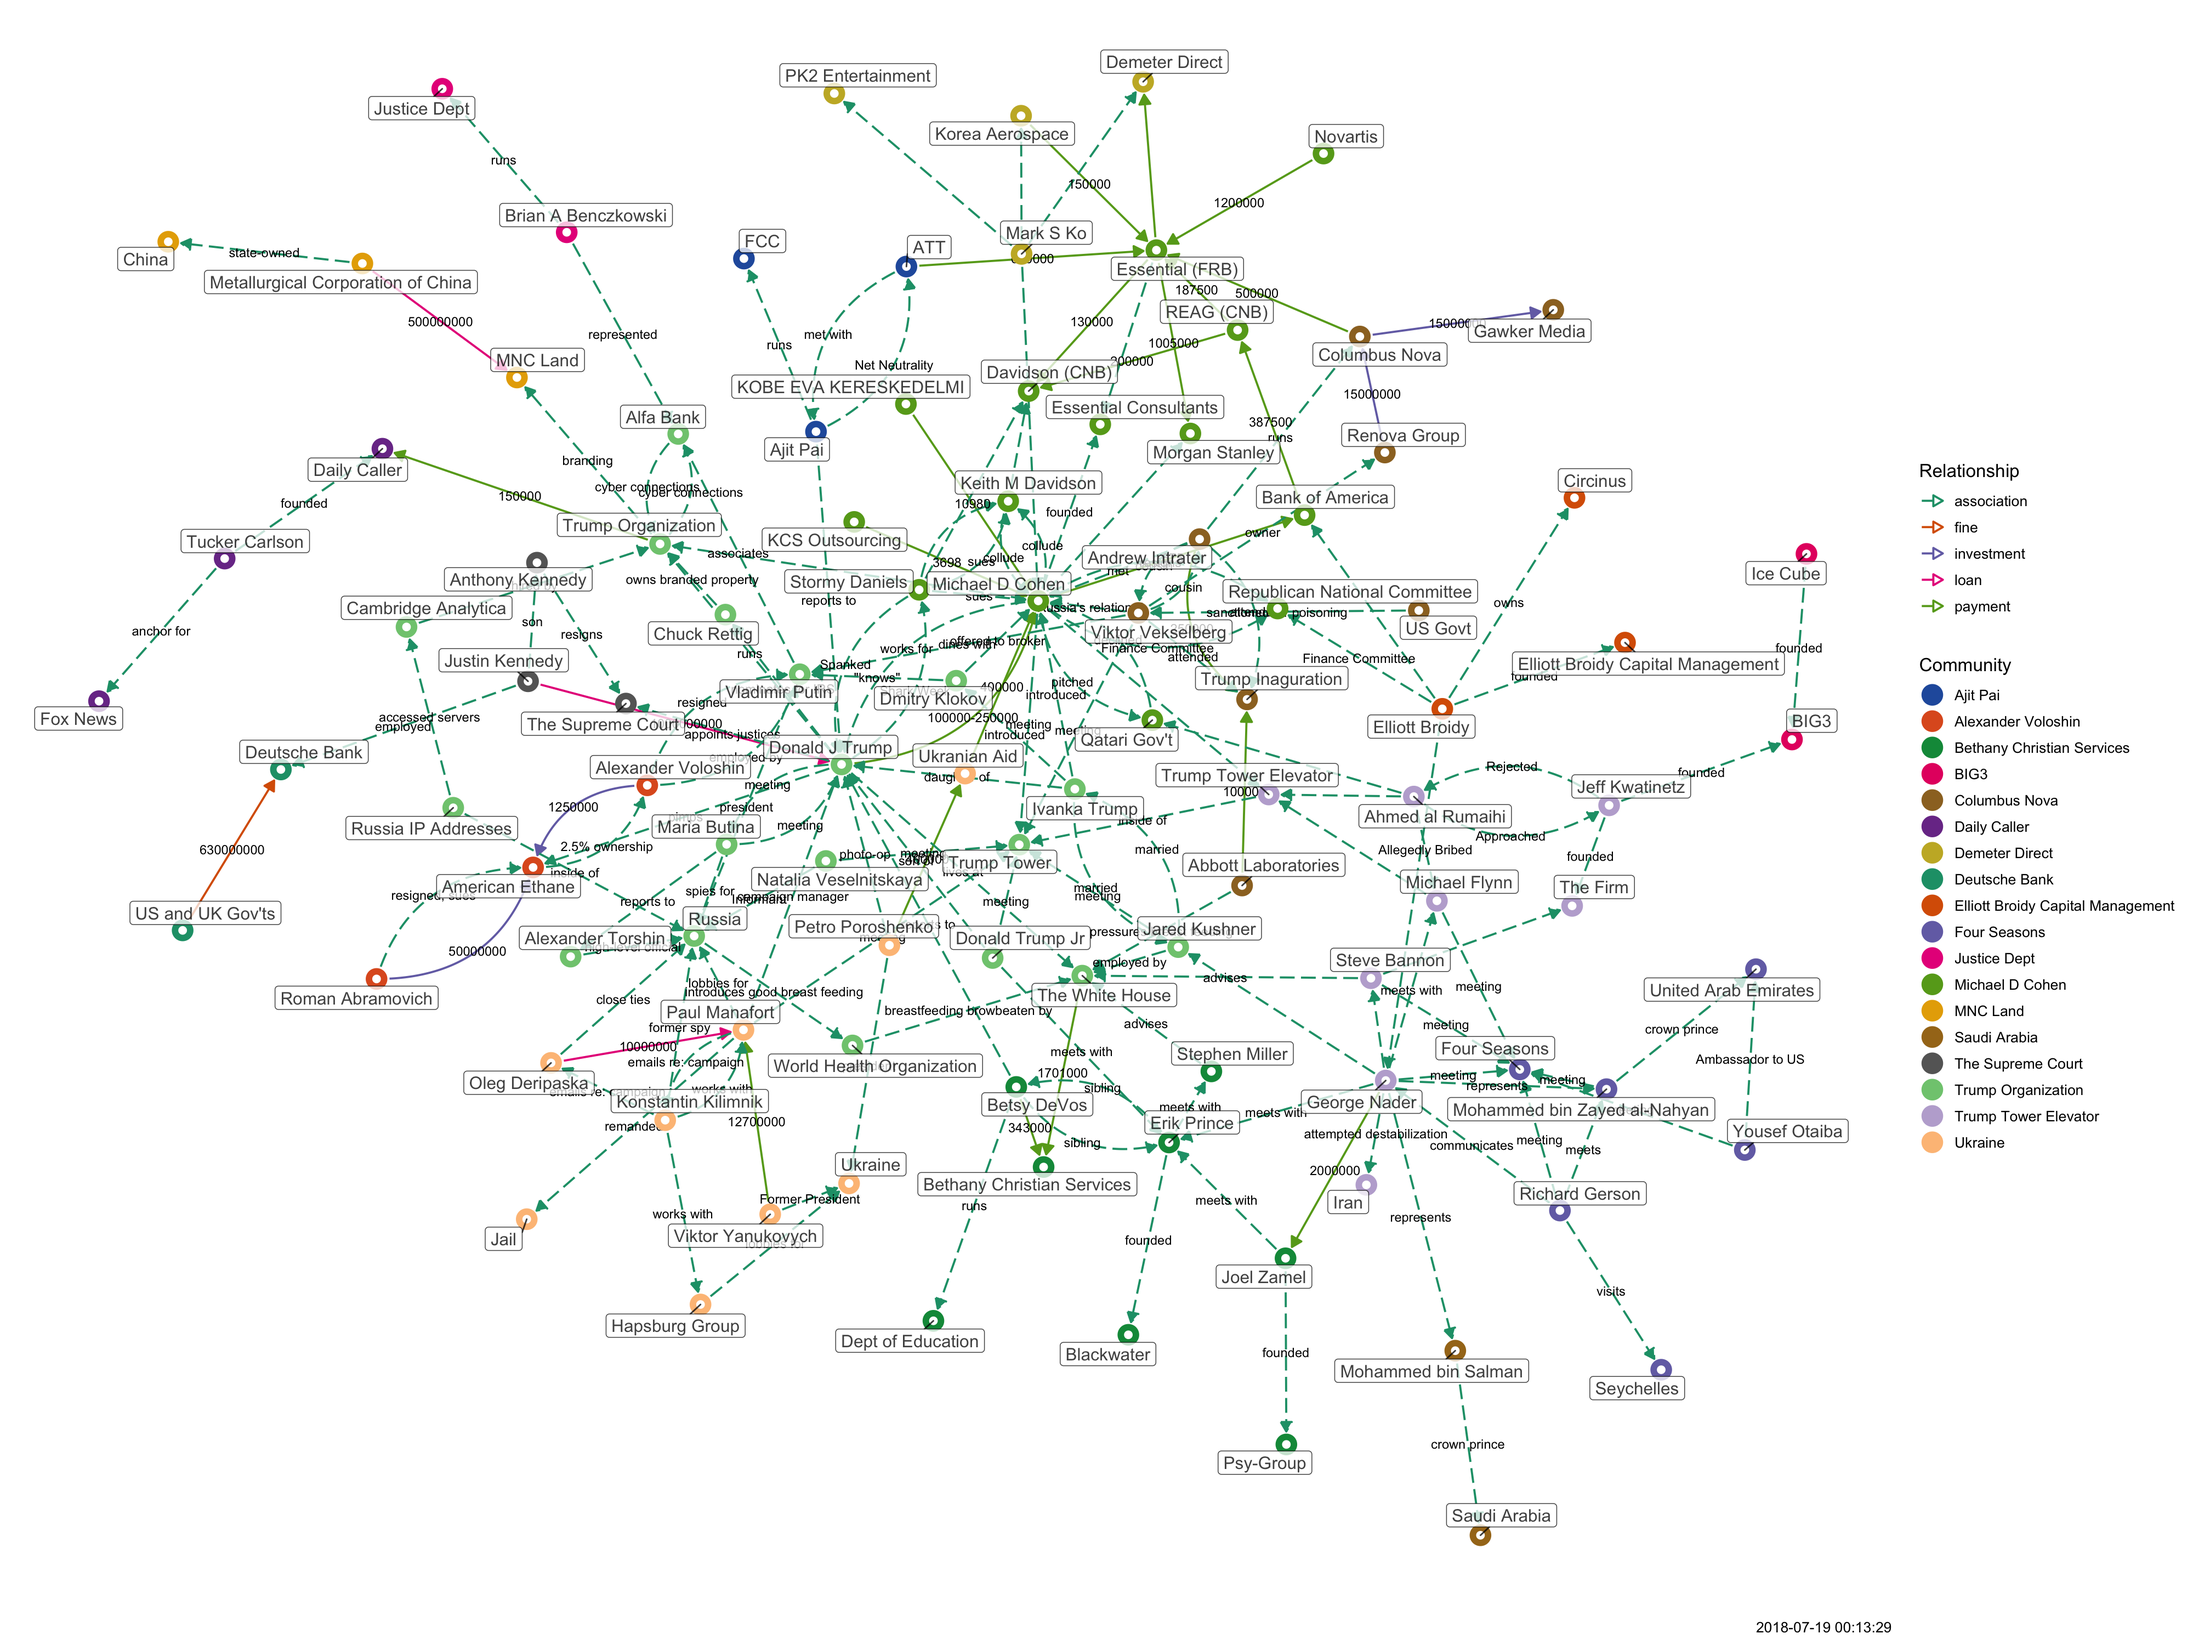
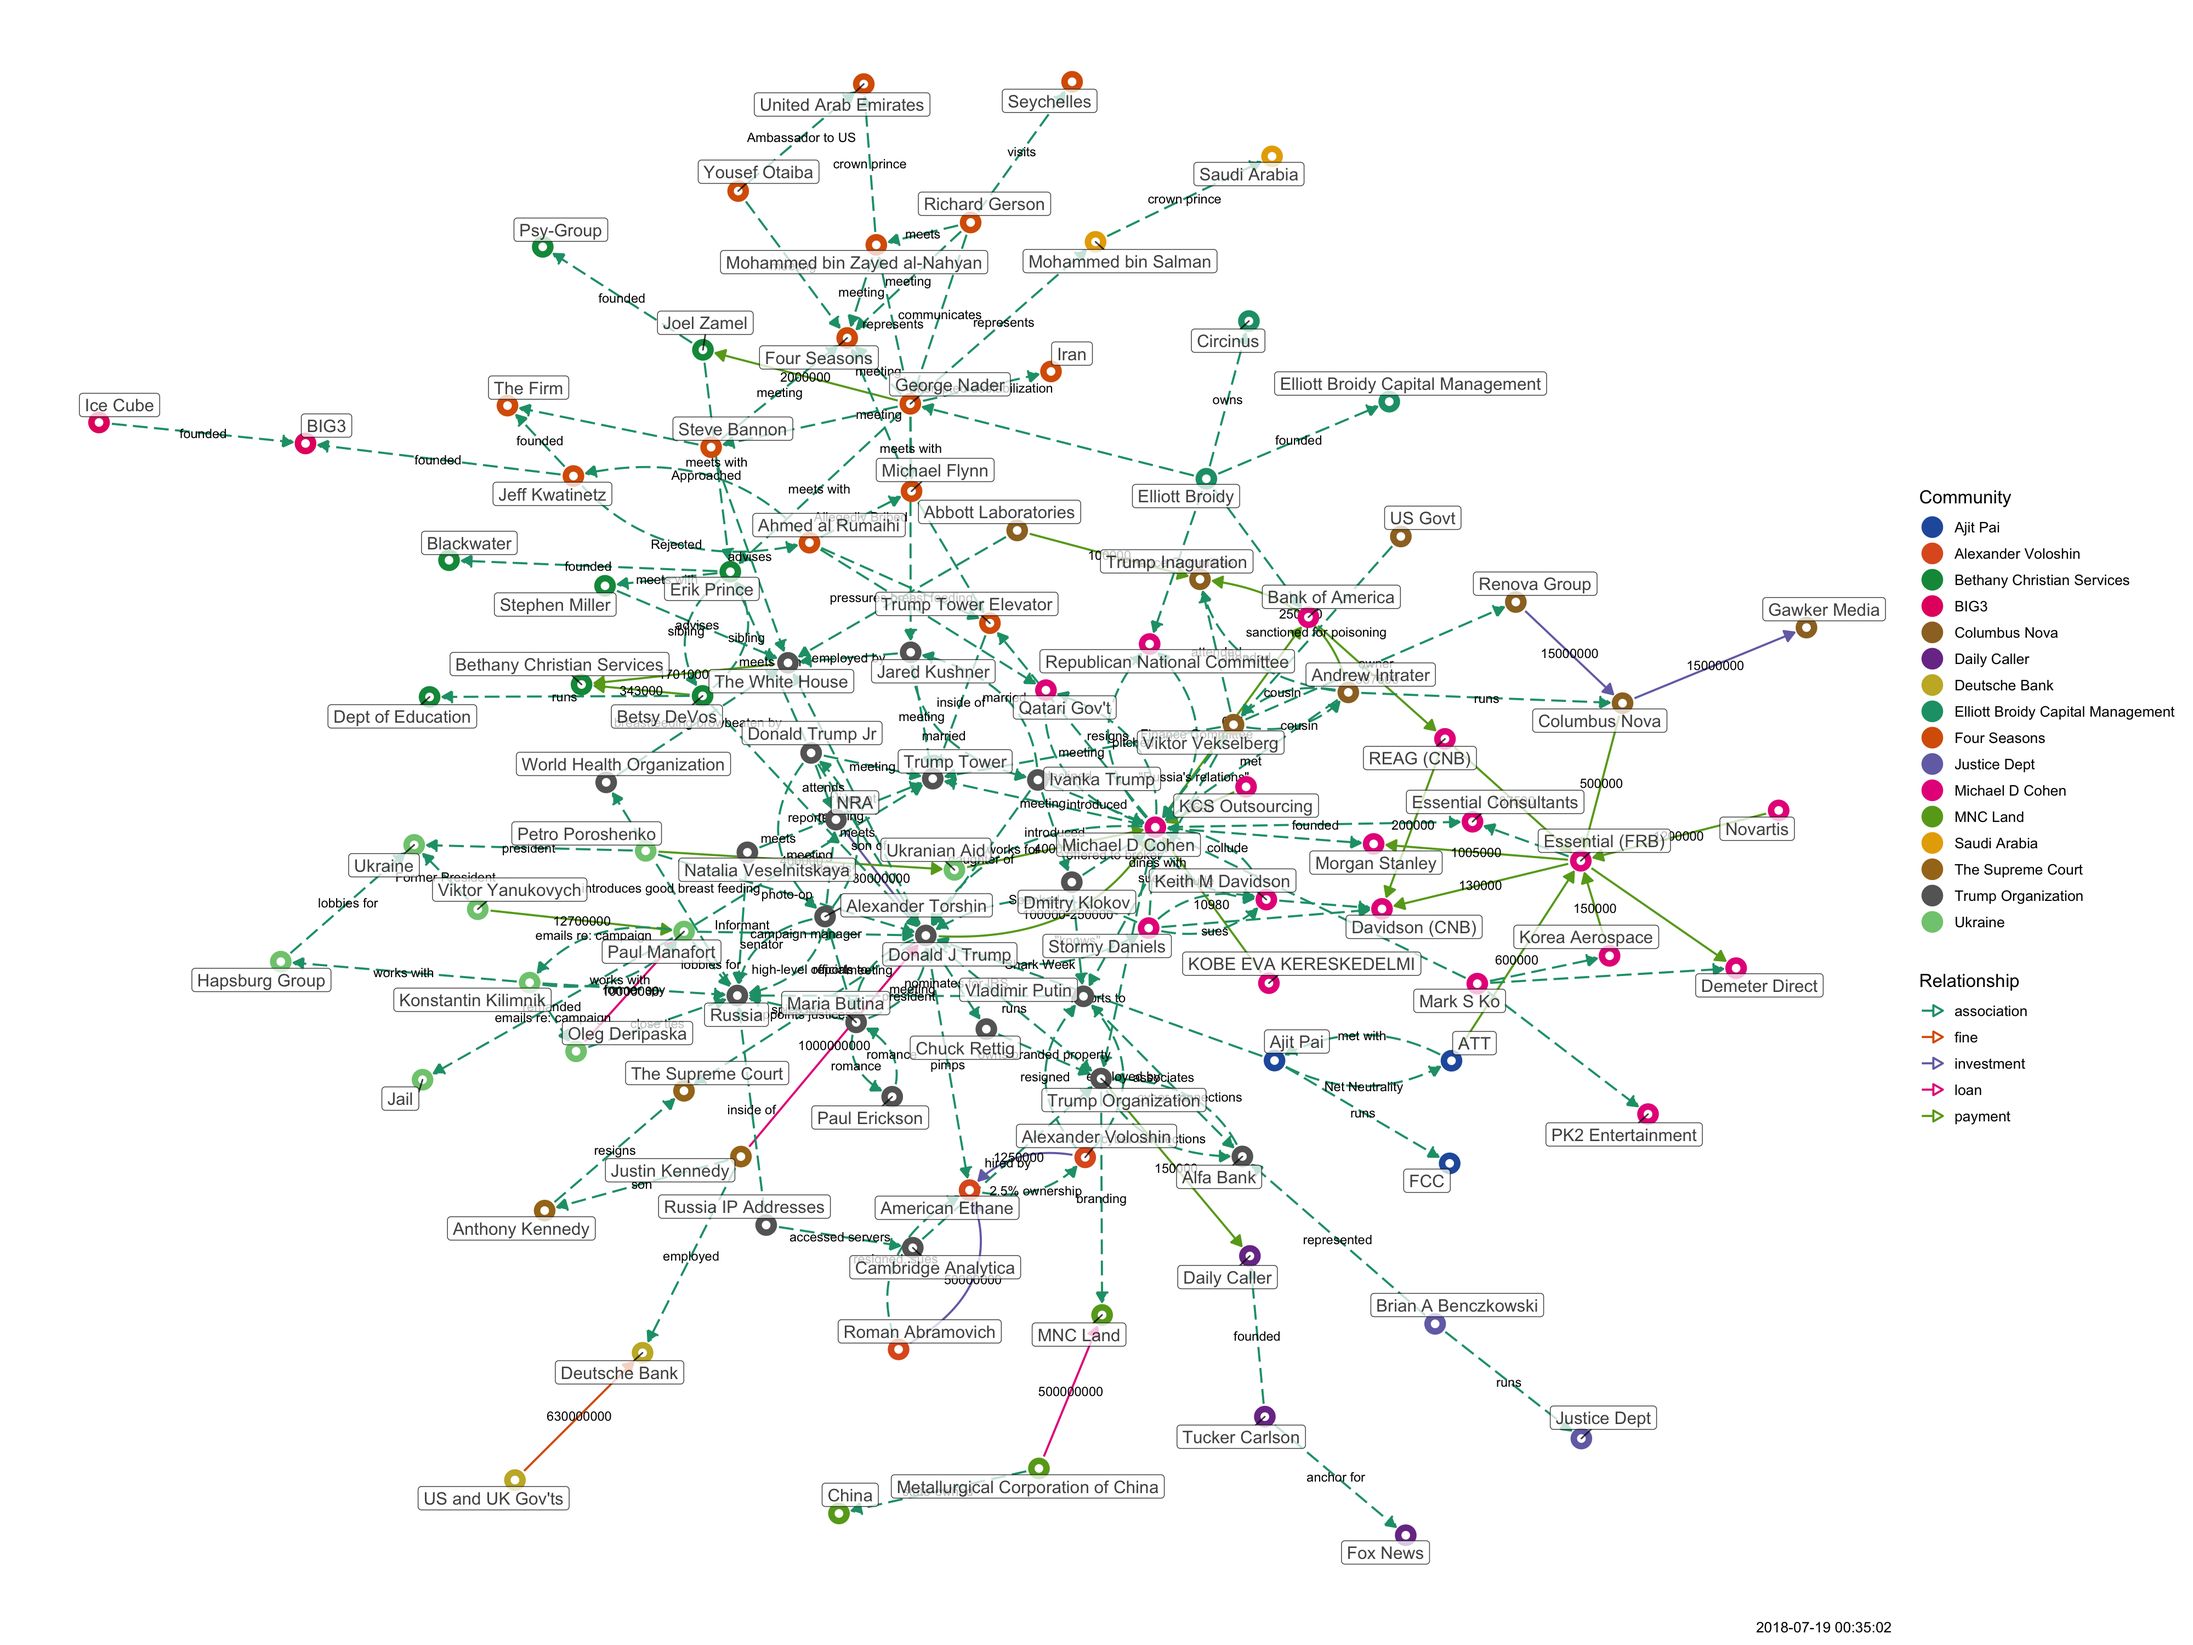
updated

diff --git a/docs/tangled-d3.html b/docs/tangled-d3.html
@@ -1143,11 +1143,11 @@ return function(){for(var n=0,e=0;e<t;++e)n+=Math.random();return n}},um=functio
 </head>
 <body style="background-color: white;">
 <div id="htmlwidget_container">
-<div id="htmlwidget-dfb1093672db890d1045" class="forceNetwork html-widget" style="width:960px;height:500px;">
+<div id="htmlwidget-844691547489298434a6" class="forceNetwork html-widget" style="width:960px;height:500px;">
 
 </div>
 </div>
-<script type="application/json" data-for="htmlwidget-dfb1093672db890d1045">{"x":{"links":{"source":[0,1,2,3,4,5,6,6,7,8,8,8,9,10,11,12,13,14,15,16,17,18,19,19,20,21,22,23,24,25,26,8,15,2,2,27,2,27,27,2,28,15,29,30,30,27,31,31,31,31,15,7,7,30,15,15,32,32,32,32,7,15,33,34,34,35,36,35,35,37,34,34,38,38,38,3,37,31,9,9,39,39,40,40,15,41,42,42,9,43,44,45,9,9,46,47,45,48,44,9,9,43,45,5,5,5,23,14,18,18,15,27,27,49,50,50,50,50,9,47,33,37,51,51,40,40,52,52,30,30,15,29,53,54,53,55,56,55,53,55,55,43,39,57,57,26,17,55,53,7,58,15,59,10,10,7,0,60,61,7,1,1,62,21,63,63,56,64,23,65,66,66,67,7,67,67,68],"target":[69,62,69,8,19,70,8,71,15,72,73,74,44,7,15,15,8,75,4,8,55,24,72,8,6,62,70,76,15,77,55,78,78,6,15,20,27,2,69,69,27,7,72,72,29,56,79,80,81,4,74,22,30,7,23,79,73,82,15,13,23,49,49,49,35,34,83,84,83,84,41,33,3,7,85,38,22,9,37,39,22,40,39,7,41,15,76,86,45,45,45,87,47,46,88,89,48,22,90,33,91,7,5,45,92,7,75,93,7,94,95,95,15,95,96,47,9,97,97,97,97,97,97,89,15,52,15,56,29,15,29,15,54,94,55,61,61,7,61,98,95,95,95,95,61,94,61,53,17,58,23,79,99,59,77,99,22,22,60,62,56,56,1,62,64,100,64,23,64,23,65,61,7,67,61,68,61],"colour":["red","blue","red","red","red","red","red","blue","red","red","red","red","red","blue","red","red","red","blue","red","red","blue","red","red","red","blue","blue","red","red","red","blue","red","blue","blue","blue","blue","blue","blue","blue","blue","blue","blue","blue","blue","blue","blue","blue","blue","blue","blue","blue","blue","blue","blue","blue","blue","blue","blue","blue","blue","blue","blue","blue","blue","blue","blue","blue","blue","blue","blue","blue","blue","blue","blue","blue","blue","blue","blue","blue","blue","blue","blue","blue","blue","blue","blue","blue","blue","blue","blue","blue","blue","blue","blue","blue","blue","blue","blue","blue","blue","blue","blue","blue","blue","blue","blue","blue","blue","blue","blue","blue","blue","blue","blue","blue","blue","blue","blue","blue","blue","blue","blue","blue","blue","blue","blue","blue","blue","blue","blue","blue","blue","blue","blue","blue","blue","blue","blue","blue","blue","blue","blue","blue","blue","blue","blue","blue","blue","blue","blue","blue","blue","blue","blue","blue","blue","blue","blue","blue","blue","blue","blue","blue","blue","blue","blue","blue","blue","blue","blue","blue","blue","blue","blue","blue","blue","blue","blue"]},"nodes":{"name":["Abbott Laboratories","Alexander Voloshin","Andrew Intrater","ATT","Bank of America","Betsy DeVos","Columbus Nova","Donald J Trump","Essential (FRB)","George Nader","Justin Kennedy","KCS Outsourcing","KOBE EVA KERESKEDELMI","Korea Aerospace","Metallurgical Corporation of China","Michael D Cohen","Novartis","Oleg Deripaska","Petro Poroshenko","REAG (CNB)","Renova Group","Roman Abramovich","The White House","Trump Organization","Ukranian Aid","US and UK Gov'ts","Viktor Yanukovych","Viktor Vekselberg","US Govt","Keith M Davidson","Stormy Daniels","Elliott Broidy","Mark S Ko","Michael Flynn","Ahmed al Rumaihi","Jeff Kwatinetz","Ice Cube","Steve Bannon","Ajit Pai","Jared Kushner","Ivanka Trump","Qatari Gov't","Tucker Carlson","Donald Trump Jr","Joel Zamel","Erik Prince","Mohammed bin Salman","Mohammed bin Zayed al-Nahyan","Stephen Miller","Trump Tower Elevator","Richard Gerson","Yousef Otaiba","Dmitry Klokov","Konstantin Kilimnik","Hapsburg Group","Paul Manafort","Vladimir Putin","Natalia Veselnitskaya","Chuck Rettig","Anthony Kennedy","World Health Organization","Russia","American Ethane","Brian A Benczkowski","Alfa Bank","Cambridge Analytica","Russia IP Addresses","Maria Butina","Alexander Torshin","Trump Inaguration","Bethany Christian Services","Gawker Media","Davidson (CNB)","Demeter Direct","Morgan Stanley","MNC Land","Daily Caller","Deutsche Bank","Essential Consultants","Republican National Committee","Elliott Broidy Capital Management","Circinus","PK2 Entertainment","BIG3","The Firm","FCC","Fox News","Blackwater","Saudi Arabia","United Arab Emirates","Psy-Group","Iran","Dept of Education","China","Ukraine","Trump Tower","Seychelles","Four Seasons","Jail","The Supreme Court","Justice Dept"],"group":["5","13","5","11","2","4","5","1","2","6","12","2","2","8","9","2","2","3","3","2","5","13","1","1","3","18","3","5","5","2","2","14","8","6","6","6","17","6","11","1","1","2","10","1","4","4","15","7","4","6","7","7","1","3","3","3","1","1","1","12","1","1","13","16","1","1","1","1","1","5","4","5","2","8","2","9","10","18","2","2","14","14","8","17","6","11","10","4","15","7","4","6","4","9","3","1","7","7","3","12","16"]},"options":{"NodeID":"name","Group":"group","colourScale":"d3.scaleOrdinal(d3.schemeCategory20);","fontSize":20,"fontFamily":"serif","clickTextSize":50,"linkDistance":50,"linkWidth":"function(d) { return Math.sqrt(d.value); }","charge":-100,"opacity":1,"zoom":true,"legend":false,"arrows":false,"nodesize":false,"radiusCalculation":" Math.sqrt(d.nodesize)+6","bounded":false,"opacityNoHover":1,"clickAction":null}},"evals":[],"jsHooks":[]}</script>
-<script type="application/htmlwidget-sizing" data-for="htmlwidget-dfb1093672db890d1045">{"viewer":{"width":450,"height":350,"padding":10,"fill":true},"browser":{"width":960,"height":500,"padding":10,"fill":true}}</script>
+<script type="application/json" data-for="htmlwidget-844691547489298434a6">{"x":{"links":{"source":[0,1,2,3,4,5,6,6,7,8,8,8,9,10,11,12,13,14,15,16,17,18,19,20,20,21,22,23,24,25,26,27,8,15,2,2,28,2,28,28,2,29,15,30,31,31,28,32,32,32,32,15,7,7,31,15,15,33,33,33,33,7,15,34,35,35,36,37,36,36,38,35,35,39,39,39,3,38,32,9,9,40,40,41,41,15,42,43,43,9,44,45,46,9,9,47,48,46,49,45,9,9,44,46,5,5,5,24,14,19,19,15,28,28,50,51,51,51,51,9,48,34,38,52,52,41,41,53,53,31,31,15,30,54,55,54,56,57,56,54,56,56,44,40,58,58,27,18,56,54,7,59,15,60,10,10,7,0,61,62,7,1,1,63,22,64,64,57,65,24,66,67,67,68,7,68,68,69,68,70,69,44,44,69,69],"target":[71,63,71,8,20,72,8,73,15,74,75,76,45,7,15,15,8,77,4,8,7,56,25,74,8,6,63,72,78,15,79,56,80,80,6,15,21,28,2,71,71,28,7,74,74,30,57,81,82,83,4,76,23,31,7,24,81,75,84,15,13,24,50,50,50,36,35,85,86,85,86,42,34,3,7,87,39,23,9,38,40,23,41,40,7,42,15,78,88,46,46,46,89,48,47,90,91,49,23,92,34,93,7,5,46,94,7,77,95,7,96,97,97,15,97,98,48,9,99,99,99,99,99,99,91,15,53,15,57,30,15,30,15,55,96,56,62,62,7,62,100,97,97,97,97,62,96,62,54,18,59,24,81,101,60,79,101,23,23,61,63,57,57,1,63,65,102,65,24,65,24,66,62,7,68,62,69,62,70,68,44,69,17,17,62],"colour":["red","blue","red","red","red","red","red","blue","red","red","red","red","red","blue","red","red","red","blue","red","red","blue","blue","red","red","red","blue","blue","red","red","red","blue","red","blue","blue","blue","blue","blue","blue","blue","blue","blue","blue","blue","blue","blue","blue","blue","blue","blue","blue","blue","blue","blue","blue","blue","blue","blue","blue","blue","blue","blue","blue","blue","blue","blue","blue","blue","blue","blue","blue","blue","blue","blue","blue","blue","blue","blue","blue","blue","blue","blue","blue","blue","blue","blue","blue","blue","blue","blue","blue","blue","blue","blue","blue","blue","blue","blue","blue","blue","blue","blue","blue","blue","blue","blue","blue","blue","blue","blue","blue","blue","blue","blue","blue","blue","blue","blue","blue","blue","blue","blue","blue","blue","blue","blue","blue","blue","blue","blue","blue","blue","blue","blue","blue","blue","blue","blue","blue","blue","blue","blue","blue","blue","blue","blue","blue","blue","blue","blue","blue","blue","blue","blue","blue","blue","blue","blue","blue","blue","blue","blue","blue","blue","blue","blue","blue","blue","blue","blue","blue","blue","blue","blue","blue","blue","blue","blue","blue","blue","blue","blue","blue","blue","blue","blue"]},"nodes":{"name":["Abbott Laboratories","Alexander Voloshin","Andrew Intrater","ATT","Bank of America","Betsy DeVos","Columbus Nova","Donald J Trump","Essential (FRB)","George Nader","Justin Kennedy","KCS Outsourcing","KOBE EVA KERESKEDELMI","Korea Aerospace","Metallurgical Corporation of China","Michael D Cohen","Novartis","NRA","Oleg Deripaska","Petro Poroshenko","REAG (CNB)","Renova Group","Roman Abramovich","The White House","Trump Organization","Ukranian Aid","US and UK Gov'ts","Viktor Yanukovych","Viktor Vekselberg","US Govt","Keith M Davidson","Stormy Daniels","Elliott Broidy","Mark S Ko","Michael Flynn","Ahmed al Rumaihi","Jeff Kwatinetz","Ice Cube","Steve Bannon","Ajit Pai","Jared Kushner","Ivanka Trump","Qatari Gov't","Tucker Carlson","Donald Trump Jr","Joel Zamel","Erik Prince","Mohammed bin Salman","Mohammed bin Zayed al-Nahyan","Stephen Miller","Trump Tower Elevator","Richard Gerson","Yousef Otaiba","Dmitry Klokov","Konstantin Kilimnik","Hapsburg Group","Paul Manafort","Vladimir Putin","Natalia Veselnitskaya","Chuck Rettig","Anthony Kennedy","World Health Organization","Russia","American Ethane","Brian A Benczkowski","Alfa Bank","Cambridge Analytica","Russia IP Addresses","Maria Butina","Alexander Torshin","Paul Erickson","Trump Inaguration","Bethany Christian Services","Gawker Media","Davidson (CNB)","Demeter Direct","Morgan Stanley","MNC Land","Daily Caller","Deutsche Bank","Essential Consultants","Republican National Committee","Elliott Broidy Capital Management","Circinus","PK2 Entertainment","BIG3","The Firm","FCC","Fox News","Blackwater","Saudi Arabia","United Arab Emirates","Psy-Group","Iran","Dept of Education","China","Ukraine","Trump Tower","Seychelles","Four Seasons","Jail","The Supreme Court","Justice Dept"],"group":["6","11","6","9","2","5","6","1","2","3","10","2","2","2","8","2","2","1","4","4","2","6","11","1","1","4","16","4","6","6","2","2","12","2","3","3","3","15","3","9","1","1","2","7","1","5","5","13","3","5","3","3","3","1","4","4","4","1","1","1","10","1","1","11","14","1","1","1","1","1","1","6","5","6","2","2","2","8","7","16","2","2","12","12","2","15","3","9","7","5","13","3","5","3","5","8","4","1","3","3","4","10","14"]},"options":{"NodeID":"name","Group":"group","colourScale":"d3.scaleOrdinal(d3.schemeCategory20);","fontSize":20,"fontFamily":"serif","clickTextSize":50,"linkDistance":50,"linkWidth":"function(d) { return Math.sqrt(d.value); }","charge":-100,"opacity":1,"zoom":true,"legend":false,"arrows":false,"nodesize":false,"radiusCalculation":" Math.sqrt(d.nodesize)+6","bounded":false,"opacityNoHover":1,"clickAction":null}},"evals":[],"jsHooks":[]}</script>
+<script type="application/htmlwidget-sizing" data-for="htmlwidget-844691547489298434a6">{"viewer":{"width":450,"height":350,"padding":10,"fill":true},"browser":{"width":960,"height":500,"padding":10,"fill":true}}</script>
 </body>
 </html>
